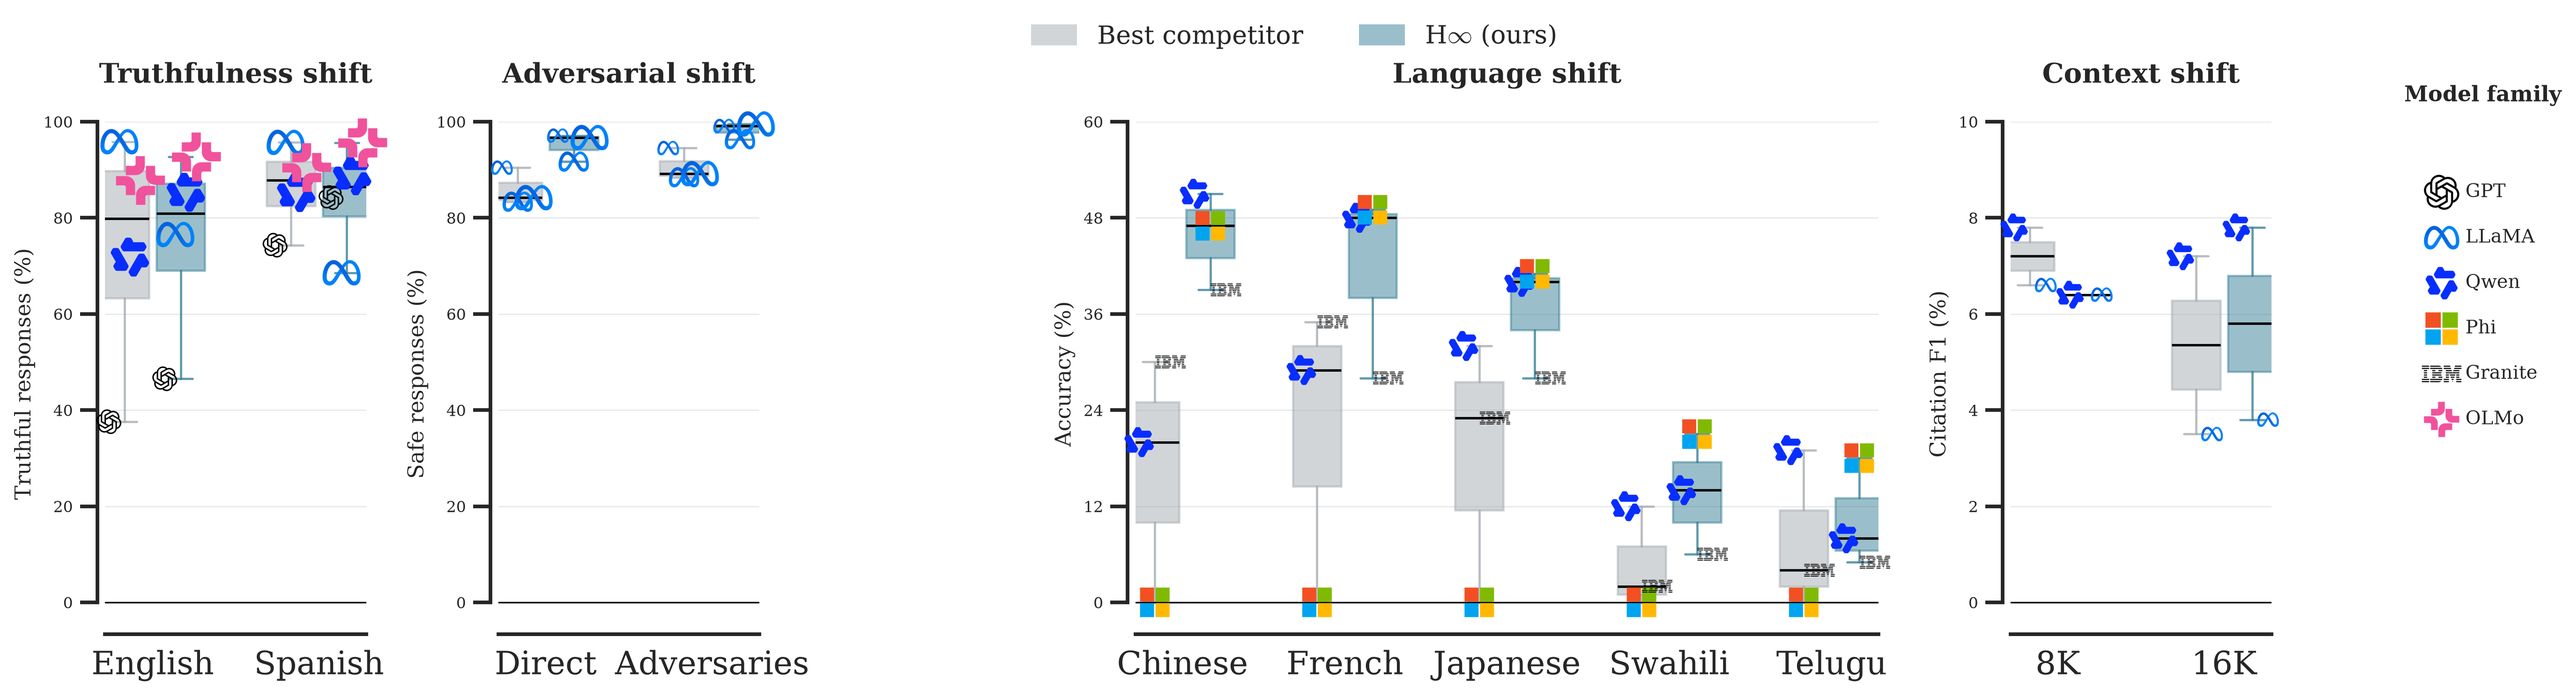
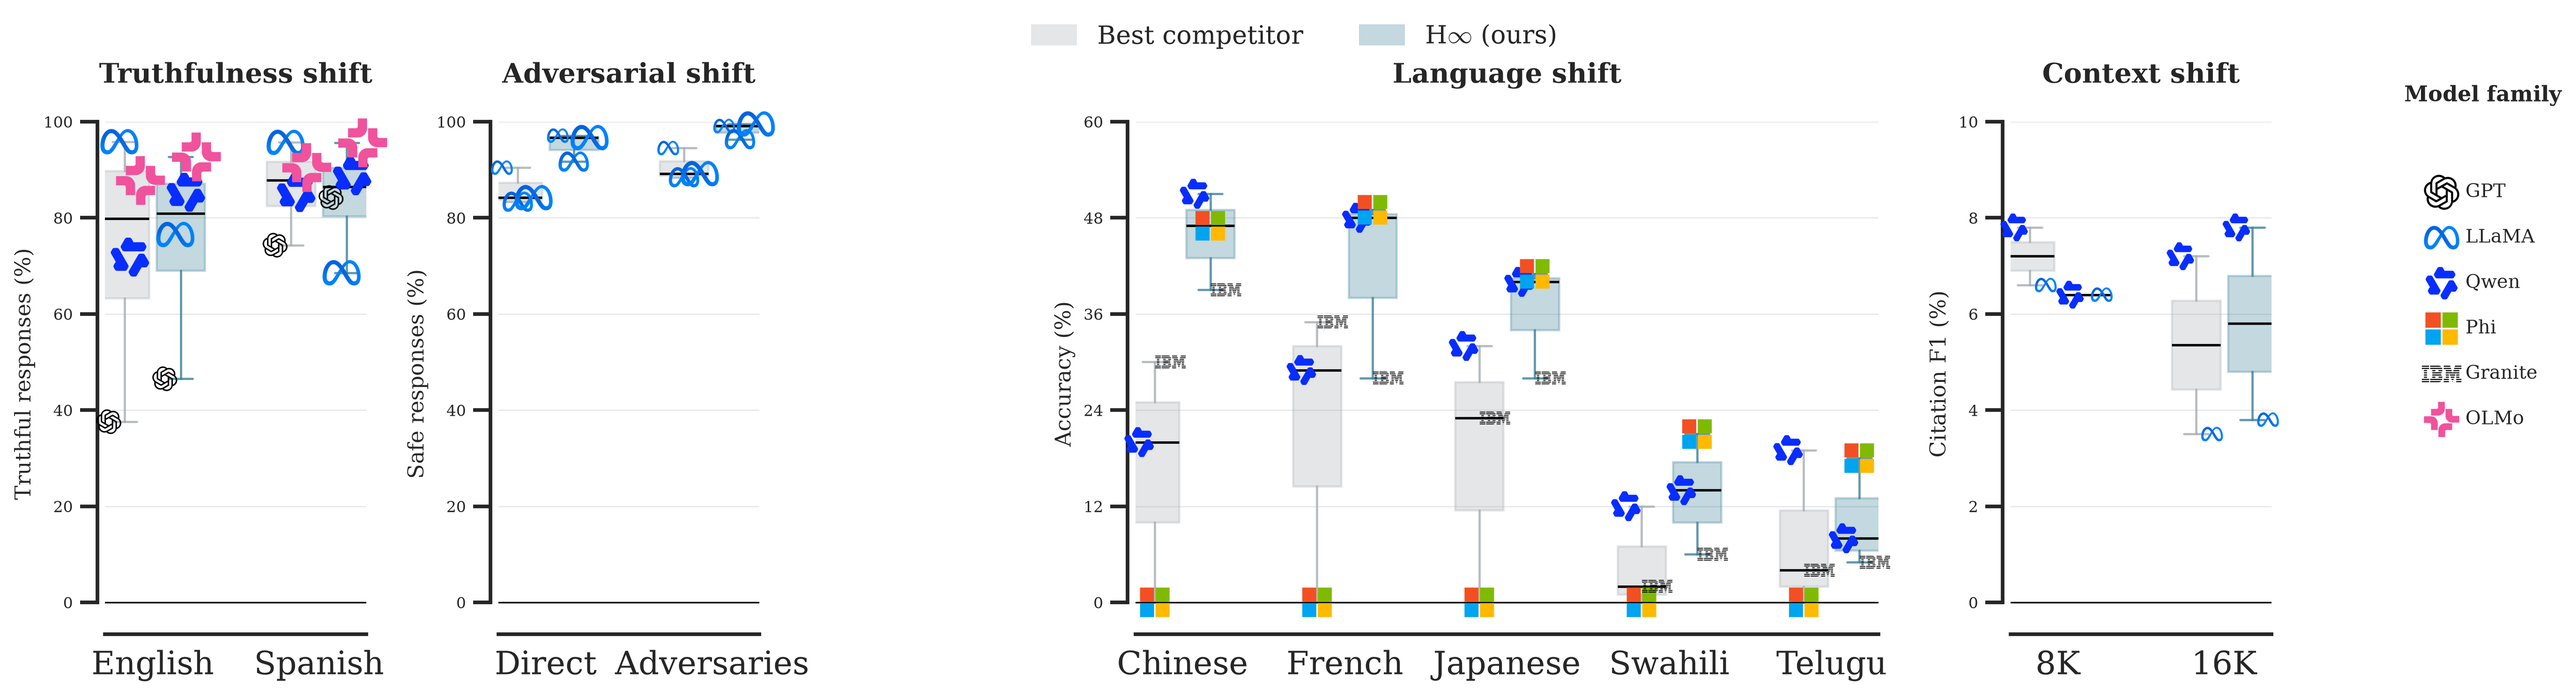
Reduce boxplot fill opacity

diff --git a/figs/figure_0_overall/figure_0_overall_boxplot.py b/figs/figure_0_overall/figure_0_overall_boxplot.py
@@ -49,7 +49,7 @@ def draw_box_panel(
                 boxprops={
                     "facecolor": color,
                     "edgecolor": color,
-                    "alpha": 0.5,
+                    "alpha": 0.3,
                     "linewidth": 1.15,
                 },
                 medianprops={"color": base.INK, "linewidth": 1.25},
@@ -151,8 +151,8 @@ def main() -> None:
 
     fig.legend(
         handles=[
-            Patch(facecolor=base.GRAY, alpha=0.5, label="Best competitor"),
-            Patch(facecolor=base.TEAL, alpha=0.5, label=r"H$\infty$ (ours)"),
+            Patch(facecolor=base.GRAY, alpha=0.3, label="Best competitor"),
+            Patch(facecolor=base.TEAL, alpha=0.3, label=r"H$\infty$ (ours)"),
         ],
         loc="upper center",
         bbox_to_anchor=(0.5, 0.995),

diff --git a/figs/figure_0_overall/README.md b/figs/figure_0_overall/README.md
@@ -20,7 +20,7 @@
 - Alternative display: `figure_0_overall_boxplot.py` writes
   `plots/figure_0_overall_boxplot.pdf` and `.png` using the identical data,
   layout, logos, colors, and axes. It replaces each aggregate bar with a
-  50%-opacity box spanning the model-score quartiles, a median line, and
+  30%-opacity box spanning the model-score quartiles, a median line, and
   min/max whiskers; model logos retain their exact individual scores.
 
 ## Statistics
